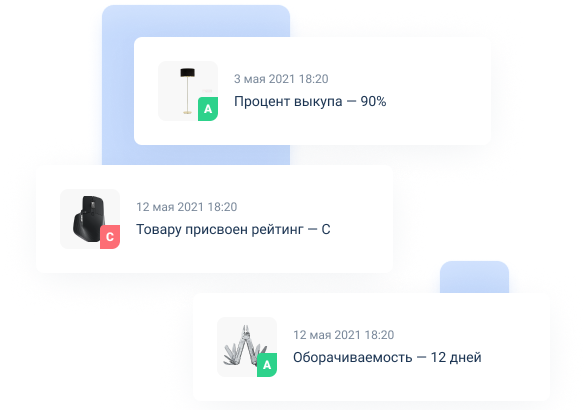
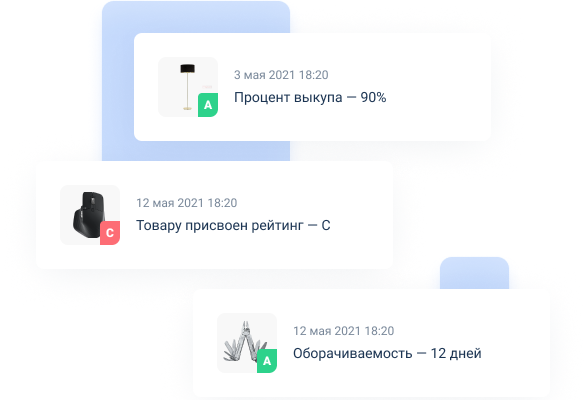
fixes analyze

diff --git a/style.css b/style.css
@@ -274,11 +274,16 @@ body {
     flex-direction: column;
     align-items: center;
     margin-bottom: 45px;
+    line-height: 26px;
 }
 
 /* how it works media*/
 
 @media (max-width: 992px) {
+    .how-col {
+        line-height: 24px;
+    }
+
     #how-it-works {
         padding-top: 60px;
         padding-bottom: 15px;
@@ -312,6 +317,7 @@ body {
     color: #1b3452;
     letter-spacing: 0.03em;
     margin-bottom: 160px;
+    line-height: 45px;
 }
 
 .analyze-row {
@@ -326,6 +332,7 @@ body {
     font-weight: 500;
     font-size: 24px;
     color: #1b3452;
+    line-height: 36px;
 }
 
 .analyze-row-subtitle {
@@ -335,6 +342,7 @@ body {
     font-size: 17px;
     color: #1b3452;
     opacity: 0.8;
+    line-height: 28px;
 }
 
 .analyze-col > img {
@@ -350,6 +358,11 @@ body {
     justify-content: flex-end;
 }
 
+.analyze-col.analyze-col-mid {
+    padding-bottom: 0;
+    justify-content: center;
+}
+
 .analyze-col > ul > li {
     font-family: Fira Sans;
     font-style: normal;
@@ -357,11 +370,12 @@ body {
     font-size: 17px;
     color: #1b3452;
     opacity: 0.8;
-    margin-bottom: 5px;
+    line-height: 28px;
 }
 
 .analyze-col > ul {
     padding-left: 20px;
+    margin-bottom: 0;
 }
 
 .analyze-col > ul > li::marker {
@@ -373,6 +387,16 @@ body {
     margin-bottom: 0;
 }
 
+.analyze-image-mid {
+    height: 390px;
+    object-fit: contain;
+}
+
+.analyze-image-last {
+    display: flex;
+    align-items: center;
+}
+
 @media (max-width: 992px) {
     .analyze-row-last {
         margin-bottom: 0;
@@ -380,16 +404,19 @@ body {
 
     #analyze {
         padding-top: 32px;
-        padding-bottom: 32px;
+        padding-bottom: 0;
     }
 
     .analyze-title {
         font-size: 20px;
         margin-bottom: 30px;
+        line-height: 28px;
     }
 
     .analyze-row-title {
         font-size: 18px;
+        line-height: 22px;
+        letter-spacing: 0.03em;
     }
 
     .analyze-col {
@@ -406,6 +433,7 @@ body {
     .analyze-row-subtitle {
         text-align: center;
         opacity: 1;
+        line-height: 24px;
     }
 
     .analyze-col > ul > li {
@@ -416,6 +444,7 @@ body {
         color: #1b3452;
         opacity: 0.8;
         text-align: center;
+        line-height: 24px;
     }
 
     .analyze-col > ul {
@@ -428,5 +457,24 @@ body {
     .analyze-col > ul > li::marker {
         color: #1b3452;
         font-size: 14px;
+    }
+
+    .analyze-image-mid {
+        width: 100%;
+        height: auto;
+    }
+}
+
+/* why-us */
+
+#why-us {
+    padding-top: 124px;
+    padding-bottom: 124px;
+}
+
+@media (max-width: 992px) {
+    #why-us {
+        padding-top: 60px;
+        padding-bottom: 60px;
     }
 }

diff --git a/index.html b/index.html
@@ -178,7 +178,7 @@
                     </div>
                 </div>
                 <div style="flex-direction: row" class="row analyze-row">
-                    <div class="col-lg-5 col-md-12 analyze-col">
+                    <div class="col-lg-5 col-md-12 analyze-col analyze-col-mid">
                         <img
                             src="./images/advantage_matrix_icon.png"
                             alt="matrix"
@@ -199,7 +199,7 @@
                     </div>
                     <div class="col-lg-6 col-md-12">
                         <img
-                            class="w-100"
+                            class="analyze-image-mid"
                             src="./images/advantage_work.png"
                             alt="work"
                         />
@@ -230,7 +230,9 @@
                             </li>
                         </ul>
                     </div>
-                    <div class="col-lg-5 offset-lg-1 col-md-12">
+                    <div
+                        class="col-lg-5 offset-lg-1 col-md-12 analyze-image-last"
+                    >
                         <img
                             class="w-100"
                             src="./images/advantage_matrix.png"
@@ -240,6 +242,7 @@
                 </div>
             </div>
         </section>
+        <section id="why-us"></section>
         <script
             src="https://code.jquery.com/jquery-3.2.1.slim.min.js"
             integrity="sha384-KJ3o2DKtIkvYIK3UENzmM7KCkRr/rE9/Qpg6aAZGJwFDMVNA/GpGFF93hXpG5KkN"
